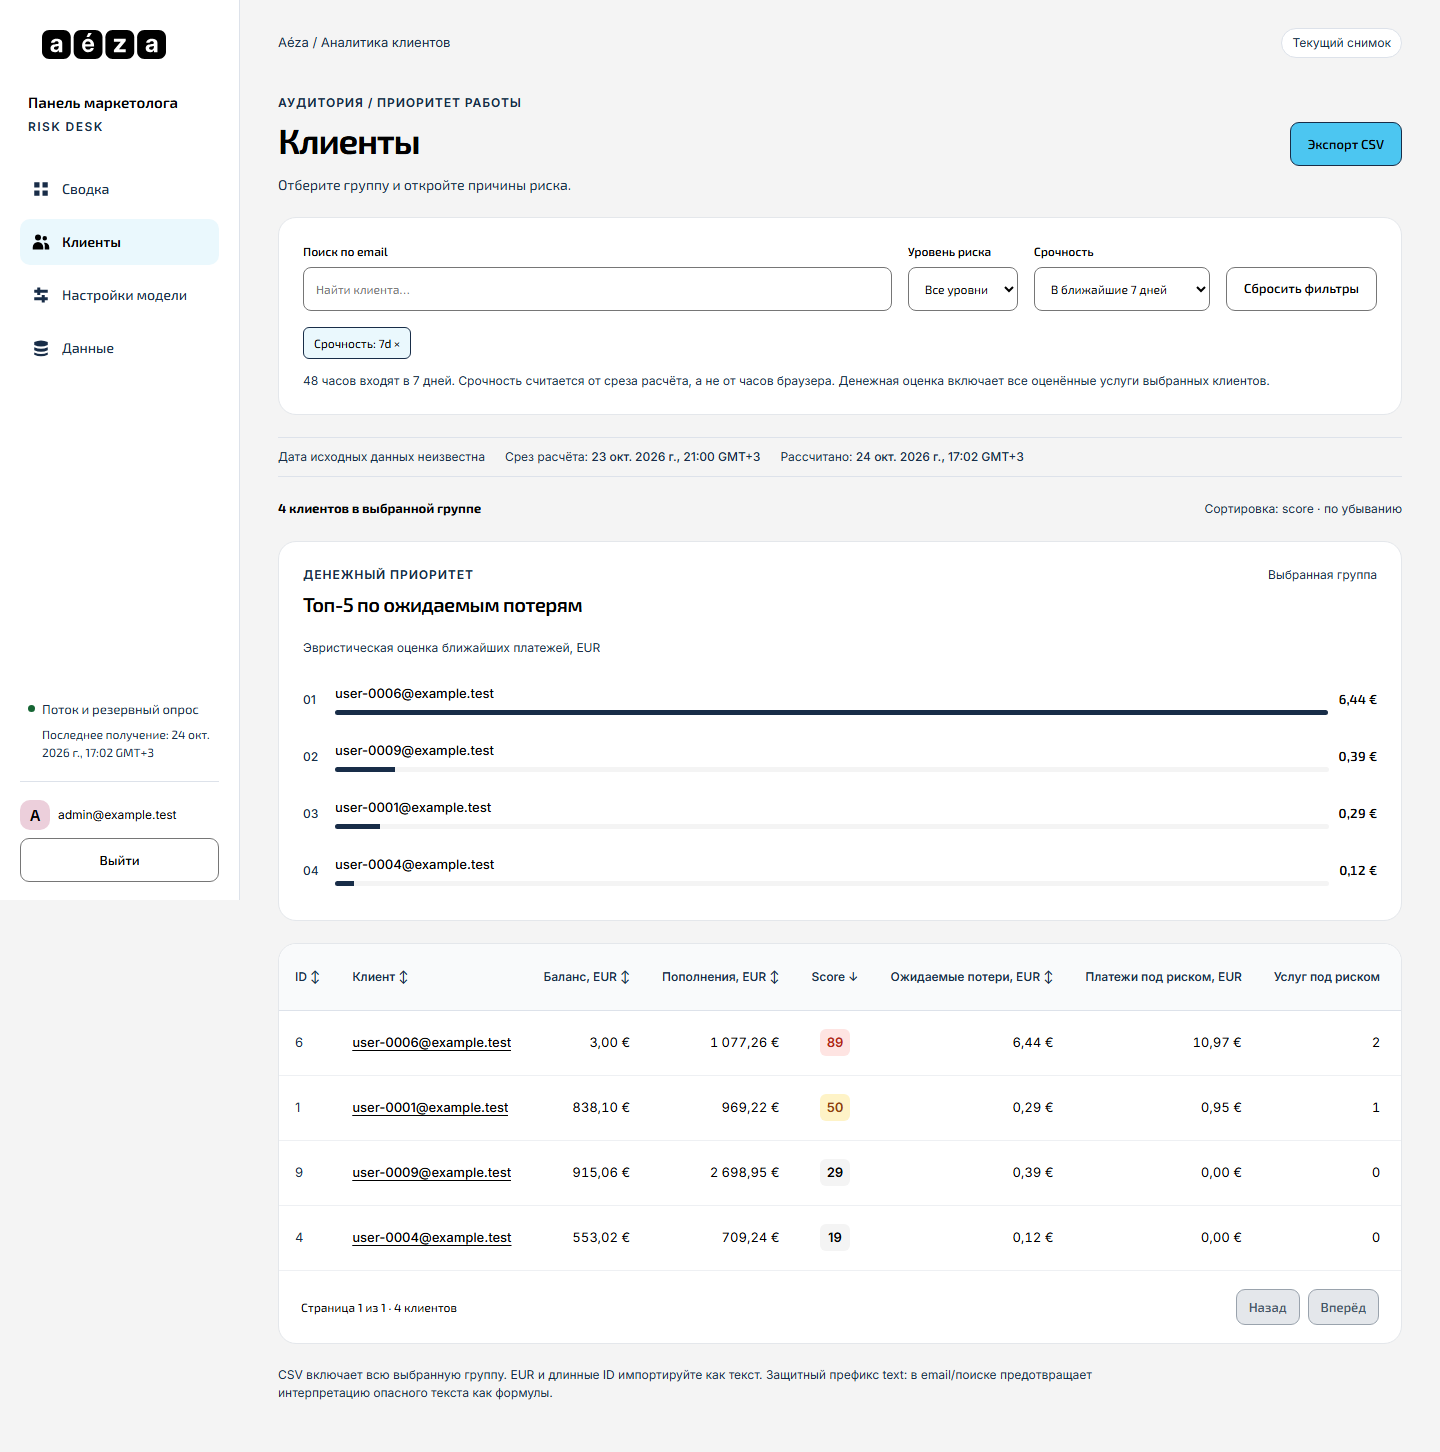
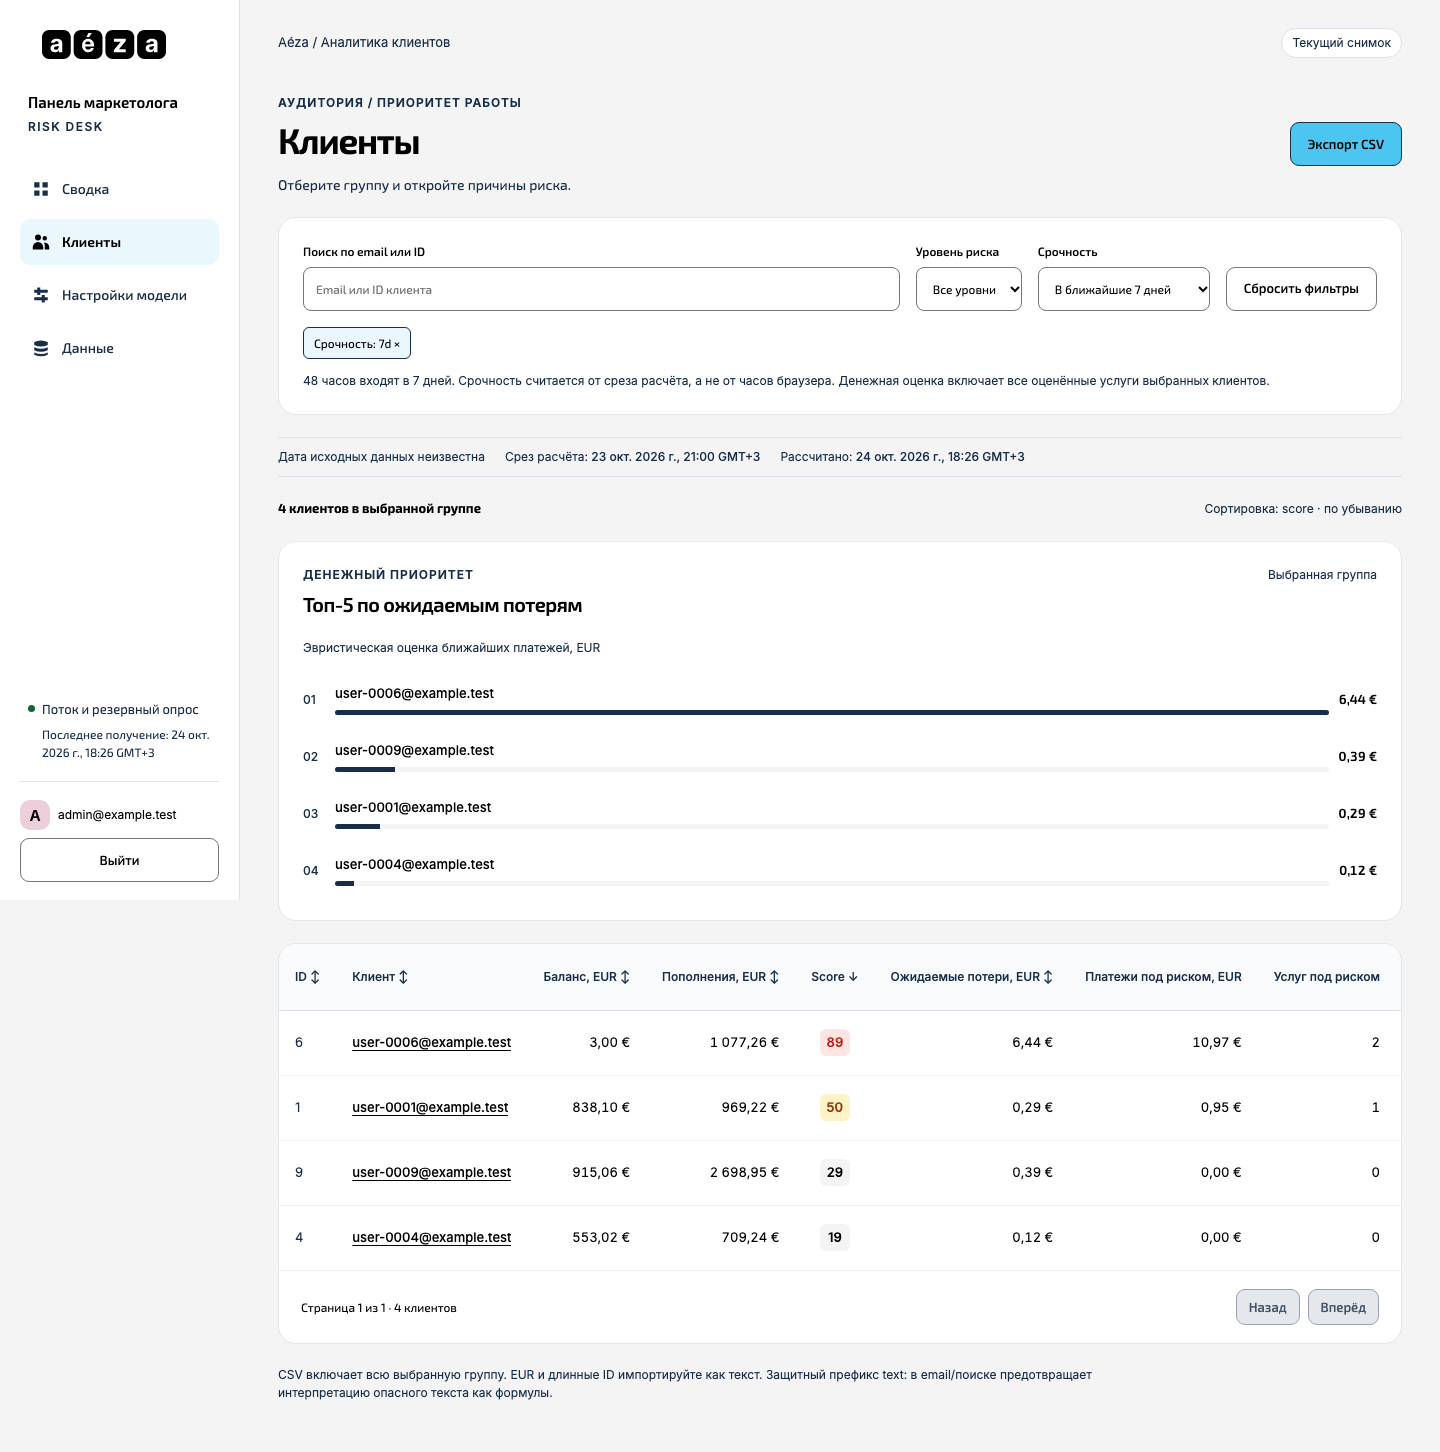
fix(search): искать по email и точному ID клиента
- числовой запрос сравнивается ещё и с a.id (точное совпадение),
  текстовый — прежний LIKE по email
- поле подписано «Поиск по email или ID», плейсхолдер «Email или ID клиента»
- e2e и скриншот списка обновлены под новую подпись
- тест: email без цифр + поиск по ID, подстрока не цепляет чужие ID
- README и ARCHITECTURE описывают новую семантику; 422 passed, e2e 7 passed

diff --git a/frontend/e2e/panel.spec.ts b/frontend/e2e/panel.spec.ts
@@ -1,6 +1,6 @@
 import { test, expect, Page } from '@playwright/test';
 async function login(page:Page){await page.goto('/');await page.getByLabel('Пароль',{exact:true}).fill('admin123');await page.getByRole('button',{name:'Войти',exact:true}).click();await expect(page.getByRole('heading',{name:'Обзор риска'})).toBeVisible();}
-test('overview → filtered customers → card → Browser Back',async({page})=>{await login(page);await page.getByRole('link',{name:'Клиенты',exact:true}).click();await page.getByLabel('Поиск по email').fill('user-00');await page.getByLabel('Срочность').selectOption('7d');await expect(page.getByRole('status').filter({hasText:'Загружаем клиентов'})).toHaveCount(0);const first=page.locator('table a').first();if(await first.count()){const name=await first.innerText();await first.click();await expect(page.getByText('Полнота данных',{exact:true})).toBeVisible();await page.goBack();await expect(page.getByLabel('Поиск по email')).toHaveValue('user-00');await expect(page.getByLabel('Срочность')).toHaveValue('7d');await expect(page.getByRole('link',{name,exact:true})).toBeVisible();}});
+test('overview → filtered customers → card → Browser Back',async({page})=>{await login(page);await page.getByRole('link',{name:'Клиенты',exact:true}).click();await page.getByLabel('Поиск по email или ID').fill('user-00');await page.getByLabel('Срочность').selectOption('7d');await expect(page.getByRole('status').filter({hasText:'Загружаем клиентов'})).toHaveCount(0);const first=page.locator('table a').first();if(await first.count()){const name=await first.innerText();await first.click();await expect(page.getByText('Полнота данных',{exact:true})).toBeVisible();await page.goBack();await expect(page.getByLabel('Поиск по email или ID')).toHaveValue('user-00');await expect(page.getByLabel('Срочность')).toHaveValue('7d');await expect(page.getByRole('link',{name,exact:true})).toBeVisible();}});
 test('settings draft guards navigation and disables fields while saving',async({page})=>{await login(page);await page.getByRole('link',{name:'Настройки модели'}).click();const field=page.getByLabel('Вес: Нехватка денег');await field.fill('0.77');await page.getByRole('link',{name:'Клиенты',exact:true}).click();await expect(page.getByRole('dialog')).toBeVisible();await page.getByRole('button',{name:'Остаться',exact:true}).click();await expect(field).toHaveValue('0.77');await page.route('**/api/v1/model/settings',async route=>{if(route.request().method()==='PATCH')await new Promise(r=>setTimeout(r,700));await route.continue();});await page.getByRole('button',{name:'Сохранить',exact:true}).click();await expect(field).toBeDisabled();await expect(page.getByText('Настройки сохранены.',{exact:false})).toBeVisible();});
 test('CSV is a complete authenticated file',async({page})=>{await login(page);await page.getByRole('link',{name:'Клиенты',exact:true}).click();await expect(page.getByRole('button',{name:'Экспорт CSV'})).toBeEnabled();const d=page.waitForEvent('download');await page.getByRole('button',{name:'Экспорт CSV'}).click();const download=await d;expect(download.suggestedFilename()).toContain('customers-run-');const stream=await download.createReadStream();let data='';for await(const chunk of stream!)data+=chunk;expect(data).toContain('customer_id');expect(data.split('\r\n').filter(Boolean).length).toBeGreaterThanOrEqual(11);});
 for(const width of [1440,1024,768,360])test(`responsive keyboard/brand ${width}`,async({page})=>{await page.setViewportSize({width,height:1000});await login(page);await expect(page.locator('h1')).toHaveCSS('font-family',/Exo/);expect(await page.evaluate(()=>document.documentElement.scrollWidth<=innerWidth)).toBeTruthy();await expect(page.locator('.brand-logo:visible').first()).toBeVisible();if(width<900){await page.getByRole('button',{name:'Открыть меню'}).click();await expect(page.getByRole('dialog')).toBeVisible();await page.keyboard.press('Escape');await expect(page.getByRole('button',{name:'Открыть меню'})).toBeFocused();}});

diff --git a/frontend/src/components/ClientFilters.tsx b/frontend/src/components/ClientFilters.tsx
@@ -1,2 +1,2 @@
 import type{CustomerQuery}from'../api';
-export function ClientFilters({query,onChange}:{query:CustomerQuery;onChange:(q:CustomerQuery)=>void}){const patch=(value:Partial<CustomerQuery>)=>onChange({...query,...value,page:1});return <div className="filters"><label className="field"><span>Поиск по email</span><input type="search" placeholder="Найти клиента…" value={query.q??''} onChange={e=>patch({q:e.target.value})}/></label><label className="field"><span>Уровень риска</span><select value={query.level??''} onChange={e=>patch({level:e.target.value as CustomerQuery['level']})}><option value="">Все уровни</option><option value="high">Высокий</option><option value="medium">Средний</option><option value="low">Низкий</option><option value="unknown">Нет оценки</option></select></label><label className="field"><span>Срочность</span><select value={query.urgency??'all'} onChange={e=>patch({urgency:e.target.value as CustomerQuery['urgency']})}><option value="all">Все сроки</option><option value="expired">Срок истёк</option><option value="48h">В ближайшие 48 часов</option><option value="7d">В ближайшие 7 дней</option></select></label><button className="button button--ghost" onClick={()=>patch({q:'',level:'',urgency:'all'})}>Сбросить фильтры</button><div className="active-filters" aria-label="Активные условия">{query.q&&<button className="chip" onClick={()=>patch({q:''})}>Поиск: {query.q} ×</button>}{query.level&&<button className="chip" onClick={()=>patch({level:''})}>Уровень: {query.level} ×</button>}{query.urgency!=='all'&&<button className="chip" onClick={()=>patch({urgency:'all'})}>Срочность: {query.urgency} ×</button>}</div></div>;}
+export function ClientFilters({query,onChange}:{query:CustomerQuery;onChange:(q:CustomerQuery)=>void}){const patch=(value:Partial<CustomerQuery>)=>onChange({...query,...value,page:1});return <div className="filters"><label className="field"><span>Поиск по email или ID</span><input type="search" placeholder="Email или ID клиента" value={query.q??''} onChange={e=>patch({q:e.target.value})}/></label><label className="field"><span>Уровень риска</span><select value={query.level??''} onChange={e=>patch({level:e.target.value as CustomerQuery['level']})}><option value="">Все уровни</option><option value="high">Высокий</option><option value="medium">Средний</option><option value="low">Низкий</option><option value="unknown">Нет оценки</option></select></label><label className="field"><span>Срочность</span><select value={query.urgency??'all'} onChange={e=>patch({urgency:e.target.value as CustomerQuery['urgency']})}><option value="all">Все сроки</option><option value="expired">Срок истёк</option><option value="48h">В ближайшие 48 часов</option><option value="7d">В ближайшие 7 дней</option></select></label><button className="button button--ghost" onClick={()=>patch({q:'',level:'',urgency:'all'})}>Сбросить фильтры</button><div className="active-filters" aria-label="Активные условия">{query.q&&<button className="chip" onClick={()=>patch({q:''})}>Поиск: {query.q} ×</button>}{query.level&&<button className="chip" onClick={()=>patch({level:''})}>Уровень: {query.level} ×</button>}{query.urgency!=='all'&&<button className="chip" onClick={()=>patch({urgency:'all'})}>Срочность: {query.urgency} ×</button>}</div></div>;}

diff --git a/backend/tests/test_customer_views.py b/backend/tests/test_customer_views.py
@@ -70,3 +70,22 @@ def test_exact_threshold_boundaries(client,full_snapshot):
     assert result.status_code==200
     items=client.get('/api/v1/customers').json()['items']
     assert [(x['score'],x['level'],x['servicesAtRisk']) for x in sorted(items,key=lambda x:x['id'])]==[(80,'medium',1),(90,'high',1),(None,'unknown',0)]
+
+
+def test_numeric_search_matches_id_even_when_email_has_no_digits(client, full_snapshot):
+    login(client)
+    snapshot = copy.deepcopy(full_snapshot)
+    for account in snapshot['accounts']:
+        if account['id'] == 6:
+            account['email'] = 'no-digits@example.test'
+    assert client.put('/api/v1/source/snapshot', json=snapshot).status_code == 200
+
+    by_id = client.get('/api/v1/customers', params={'q': '6'}).json()
+    assert [item['id'] for item in by_id['items']] == [6]
+    assert by_id['total'] == 1
+
+    by_email = client.get('/api/v1/customers', params={'q': 'no-digits'}).json()
+    assert [item['id'] for item in by_email['items']] == [6]
+
+    # ID ищется точно: подстрока не должна цеплять 16 или 60.
+    assert client.get('/api/v1/customers', params={'q': '16'}).json()['total'] == 0

diff --git a/backend/app/api.py b/backend/app/api.py
@@ -323,7 +323,13 @@ def _selection(run, level, q, urgency):
     if level:
         where.append('cs.level = ?'); params.append(level)
     if q:
-        where.append('lower(a.email) LIKE ?'); params.append(f'%{q.lower()}%')
+        query = q.strip()
+        like = f'%{query.lower()}%'
+        if query.isdigit():
+            # Число ищет и по email, и по точному ID клиента.
+            where.append('(lower(a.email) LIKE ? OR a.id = ?)'); params.extend([like, int(query)])
+        else:
+            where.append('lower(a.email) LIKE ?'); params.append(like)
     if urgency != 'all':
         as_of = datetime.fromisoformat(json.loads(run['summary'])['asOf'].replace('Z', '+00:00'))
         iso = lambda dt: dt.astimezone(timezone.utc).isoformat(timespec='milliseconds').replace('+00:00', 'Z')

diff --git a/README.md b/README.md
@@ -255,8 +255,8 @@ OpenAPI-файл: [`openapi.json`](openapi.json).
 JSON Schema не различает100 и100.0; это ограничение дополнительно проверяет сервер.
 
 Список дополнен `topLosses`, глобальной `summary` и контекстом `calculation`
-(runId/settingsVersion/сохранённые thresholds). Топ учитывает поиск по email
-(прежняя LIKE-семантика) и level, но не страницу/сортировку; равенства разрешаются
+(runId/settingsVersion/сохранённые thresholds). Топ учитывает поиск по email или ID
+(числовой запрос дополнительно сравнивается с точным ID) и level, но не страницу/сортировку; равенства разрешаются
 по id. Верхние карточки остаются глобальными. Пороги в подписях относятся к тому же расчёту.
 
 Доступ: cookie sid **или** Bearer session token. Непустая cookie имеет приоритет,

diff --git a/docs/ARCHITECTURE.md b/docs/ARCHITECTURE.md
@@ -52,7 +52,7 @@ GET customers сначала восстанавливает недостающи
 Контекст calculation(runId,settingsVersion,thresholds) относится ко всему ответу.
 Пороги копируются в summary при расчёте, а не читаются отдельно из current settings.
 TopLosses: до5 клиентов по expected_loss DESC/id ASC во всей выбранной совокупности;
-q ищет email с прежней LIKE-семантикой, level фильтрует классификацию. Страница
+q ищет email по LIKE, а числовой запрос — ещё и точный ID; level фильтрует классификацию. Страница
 и сортировка таблицы на top не влияют. Верхняя сводка и /metrics глобальные.
 Фронтенд публикует единый bundle одним setState и игнорирует устаревшие ответы.
 
